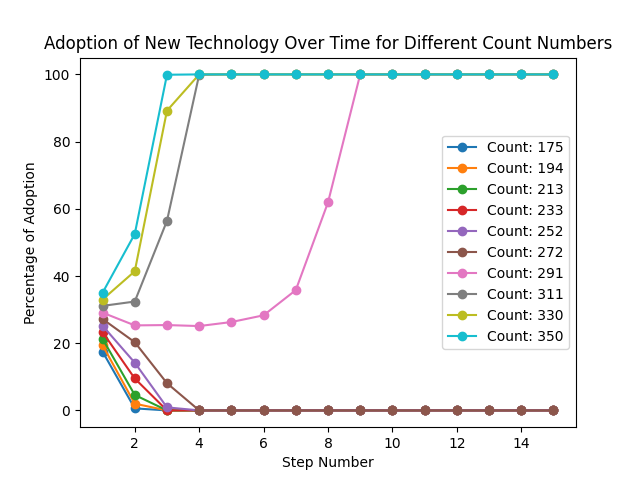
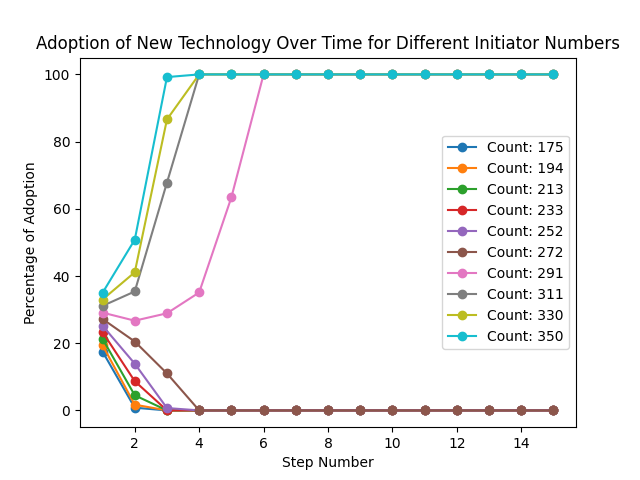
Organised files and comments

diff --git a/experiments/experiment4.py b/experiments/experiment4.py
@@ -17,73 +17,76 @@ Vh = 11
 Vl = 8
 p = 8
 
-initiators = 0.25
+initiators = 0.20
 
 incentive_strategy = "Random"
 initialisation = "Lowest_degree"
-incentive_count_values = np.linspace(0.1, 0.80, 25)
+incentive_count_values = np.linspace(0.1, 0.80, 20)
 
 results = []
 
-last_incentive = 50
+last_incentive = 80
 
-for incentive_count in reversed(incentive_count_values):
+print("reversed: " + str(list(reversed(incentive_count_values))))
+
+for incentive_count in list(reversed(incentive_count_values)):
     incentive_count = int(incentive_count * size_network)
     print(incentive_count)
     incentive_amount = last_incentive
     break_outer = False
 
-    G, node_degrees = create_connected_network(
-        size_network, connectivity_prob, random_seed, Vh=Vh, homophily=False, homophily_strength=0.01,
-        initiators=int(initiators*size_network), node_degree=0, gamma=True,
-        initialisation=initialisation, incentive_count=incentive_count, incentive_amount=incentive_amount,
-        incentive_strategy=incentive_strategy)
+    while True:
+        G, node_degrees = create_connected_network(
+            size_network, connectivity_prob, random_seed, Vh=Vh, homophily=False, homophily_strength=0.01,
+            initiators=int(initiators*size_network), node_degree=0, gamma=True,
+            initialisation=initialisation, incentive_count=incentive_count, incentive_amount=incentive_amount,
+            incentive_strategy=incentive_strategy)
 
-    model = GameModel(num_agents=size_network, network=G, node_degrees=node_degrees, Vl=Vl, p=p)
+        model = GameModel(num_agents=size_network, network=G, node_degrees=node_degrees, Vl=Vl, p=p)
 
-    for step in range(model_steps):
-        model.step()
+        for step in range(model_steps):
+            model.step()
 
-    pct_norm_abandonment = model.pct_norm_abandonmnet[-1]
+        pct_norm_abandonment = model.pct_norm_abandonmnet[-1]
 
-    if pct_norm_abandonment != 100:
-        incentive_amount += 10
-        print("not 100, so starting while loop")
-        while True:
-            G, node_degrees = create_connected_network(
-                size_network, connectivity_prob, random_seed, Vh=Vh, homophily=False, homophily_strength=0.01,
-                initiators=int(initiators*size_network), node_degree=0, gamma=True,
-                initialisation=initialisation, incentive_count=incentive_count, incentive_amount=incentive_amount,
-                incentive_strategy=incentive_strategy)
+        if pct_norm_abandonment != 100:
+            incentive_amount += 10
+            print("not 100, so starting while loop")
+            while True:
+                G, node_degrees = create_connected_network(
+                    size_network, connectivity_prob, random_seed, Vh=Vh, homophily=False, homophily_strength=0.01,
+                    initiators=int(initiators*size_network), node_degree=0, gamma=True,
+                    initialisation=initialisation, incentive_count=incentive_count, incentive_amount=incentive_amount,
+                    incentive_strategy=incentive_strategy)
 
-            model = GameModel(num_agents=size_network, network=G, node_degrees=node_degrees, Vl=Vl, p=p)
+                model = GameModel(num_agents=size_network, network=G, node_degrees=node_degrees, Vl=Vl, p=p)
 
-            for step in range(model_steps):
-                model.step()
+                for step in range(model_steps):
+                    model.step()
 
-            pct_norm_abandonment = model.pct_norm_abandonmnet[-1]
+                pct_norm_abandonment = model.pct_norm_abandonmnet[-1]
 
-            print("pct_norm_abandonment: " + str(pct_norm_abandonment))
-            # Check if everyone has abandoned the norm
-            if pct_norm_abandonment == 100:
-                print("has entered, successful result")
-                results.append((incentive_count/size_network, incentive_amount*incentive_count))
-                break_outer = True
-                last_incentive = incentive_amount
-                break
-            else:
-                incentive_amount += 10
-                print("current incentive amount = " + str(incentive_amount))
+                print("pct_norm_abandonment: " + str(pct_norm_abandonment))
+                # Check if everyone has abandoned the norm
+                if pct_norm_abandonment == 100:
+                    print("has entered, successful result")
+                    results.append(((incentive_count/size_network), (incentive_amount*incentive_count)))
+                    break_outer = True
+                    last_incentive = incentive_amount
+                    break
+                else:
+                    incentive_amount += 10
+                    print("current incentive amount = " + str(incentive_amount))
 
-    if break_outer:
-        continue
-    else:
-        if pct_norm_abandonment == 100 and incentive_count == int(list(reversed(incentive_count_values))[0]*size_network):
-            print("has entered for " + str(incentive_count))
-            # TODO, PROBABLY LOWER IT
-            results.append((incentive_count, 0))
+        if break_outer:
+            break
+
+        if incentive_amount > 0:
+            incentive_amount -= 50
         else:
-            print("pct is == 100 for incentive_count " + str(incentive_count))
+            results.append((incentive_count/size_network, 0))
+            last_incentive = 0
+            break
 
 # Plot the results
 incentive_count_values_plot = [ic for ic, ia in results]
@@ -97,5 +100,5 @@ plt.plot(incentive_count_values_plot, incentive_amount_values, marker='o')
 
 plt.ylabel("Incentive Amount")
 plt.xlabel("Percentage who receive an incentive")
-plt.title("Incentive Amount as a Function of Incentive Initiators Count (for p={})".format(p))
+plt.title("Incentive Amount as a Function of Incentive Initiators Count")
 plt.show()

diff --git a/main.py b/main.py
@@ -11,10 +11,23 @@ random_seed = 123
 model_steps = 25
 Vh=11
 Vl = 8
-p = 7
+p = 8
+
+initiators = 0.20
+
+incentive_strategy = "Random"
+initialisation = "Random"
+incentive_count_values = np.linspace(0.1, 0.80, 20)
+
+incentive_count =  int(0.1 * size_network)
+incentive_amount = 0
 
 # Generate a connected no_gamma network
-G, node_degrees = create_connected_network(size_network, connectivity_prob, random_seed, Vh=Vh, homophily=False, homophily_strength=0.01, initiators=244, node_degree=0, gamma=True, initialisation="Lowest_degree", incentive_count = 0, incentive_amount = 0, incentive_strategy="Highest_degree")
+G, node_degrees = create_connected_network(
+            size_network, connectivity_prob, random_seed, Vh=Vh, homophily=False, homophily_strength=0.01,
+            initiators=int(initiators*size_network), node_degree=0, gamma=True,
+            initialisation=initialisation, incentive_count=incentive_count, incentive_amount=incentive_amount,
+            incentive_strategy=incentive_strategy)
 
 # Create the model
 model = GameModel(num_agents=size_network, network=G, node_degrees= node_degrees, Vl=Vl, p=p)
@@ -24,13 +37,13 @@ for step in range(model_steps):
     model.step()
 
     # Get the network with colors
-    #network_data = model.get_network_with_colors()
+    network_data = model.get_network_with_colors()
 
     # Plot the network
-    #plt.figure()
-    #plt.title(f'Step {step}')
-    #nx.draw(network_data["graph"], network_data["pos"], node_color=network_data["colors"], labels=network_data["alpha_values"])
-    #plt.show()
+    plt.figure()
+    plt.title(f'Step {step}')
+    nx.draw(network_data["graph"], network_data["pos"], node_color=network_data["colors"], labels=network_data["gamma_values"])
+    plt.show()
 
 # Plotting
 plt.plot(range(1, model_steps + 1), model.pct_norm_abandonmnet, marker='o')

diff --git a/src/network_creation.py b/src/network_creation.py
@@ -100,12 +100,6 @@ def set_strategies(G, initiators, node_degree, seed, gamma, initialisation):
             print(f"Degree of the node {node} changing: {degree_of_node}")
             G.nodes[node]['strategy'] = "Adopt New Technology"
 
-    # Print distinct degrees and their counts
-    #print("Distinct degrees of nodes and their counts:")
-    #for degree in distinct_degrees:
-        #count = list(node_degrees.values()).count(degree)
-        #print(f"Degree {degree}: {count} nodes")
-
     return node_degrees
 
 def create_connected_network(size, connectivity, seed, Vh, homophily=False, homophily_strength=0.25, initiators=0, node_degree=0, gamma=False, initialisation="Highest_degree", incentive_count = 0, incentive_amount = 0, incentive_strategy="Highest_degree"):
@@ -171,6 +165,7 @@ def create_connected_network(size, connectivity, seed, Vh, homophily=False, homo
     if incentive_count != 0:
         incentive_distribution(G, seed, incentive_count, incentive_amount = incentive_amount, incentive_strategy=incentive_strategy)
     else:
+        print("Incentive amount is zero")
         nx.set_node_attributes(G, 0, 'incentive_amount')
 
     return G, node_degrees

diff --git a/experiments/experiment2.py b/experiments/experiment2.py
@@ -32,7 +32,7 @@ for p in p_values:
     for initiator_prob in initiator_probs:
         G, node_degrees = create_connected_network(
             size_network, connectivity_prob, random_seed, Vh=Vh, homophily=False, homophily_strength=0.01,
-            initiators=(int(initiator_prob * size_network)), node_degree=0, gamma=False, initialisation="Highest_degree",
+            initiators=(int(initiator_prob * size_network)), node_degree=0, gamma=True, initialisation="Random",
             incentive_count = 0, incentive_amount = 0, incentive_strategy="Highest_degree")
 
         model = GameModel(num_agents=size_network, network=G, node_degrees=node_degrees, Vl=Vl, p=p)
@@ -40,7 +40,7 @@ for p in p_values:
         for step in range(model_steps):
             model.step()
 
-        final_cascade_size = model.get_final_cascade_size_scaled() / size_network
+        final_cascade_size = model.get_final_cascade_size() / size_network
 
         results[p].append((initiator_prob, final_cascade_size))
 

diff --git a/src/agent.py b/src/agent.py
@@ -49,7 +49,7 @@ class GameAgent(Agent):
         if self.strategy == "Adopt New Technology":
             payoff = self.gamma * N - self.p * num_stick_to_traditional
         else:
-            payoff = (self.Vl * N - self.p * num_adopt_new_tech)
+            payoff = self.Vl * N - self.p * num_adopt_new_tech
         return payoff
 
     def update_strategy(self, num_stick_to_traditional, num_adopt_new_tech):
@@ -70,9 +70,7 @@ class GameAgent(Agent):
 
         payoff_traditional = (self.Vl * N - self.p * num_adopt_new_tech)
 
-        print("current_payoff: " + str(current_payoff) + " payoff_new: " + str(payoff_new))
         if current_payoff < payoff_new and self.strategy == "Stick to Traditional":
             self.strategy = "Adopt New Technology"
-            print("changed!")
         elif current_payoff < payoff_traditional and self.strategy == "Adopt New Technology":
             self.strategy = "Stick to Traditional"

diff --git a/experiments/experiment1.py b/experiments/experiment1.py
@@ -14,7 +14,7 @@ from src.model import GameModel
 
 # Parameters
 size_network = 1000
-connectivity_prob = 0.5
+connectivity_prob = 0.1
 random_seed = 123
 model_steps = 15
 Vh = 11
